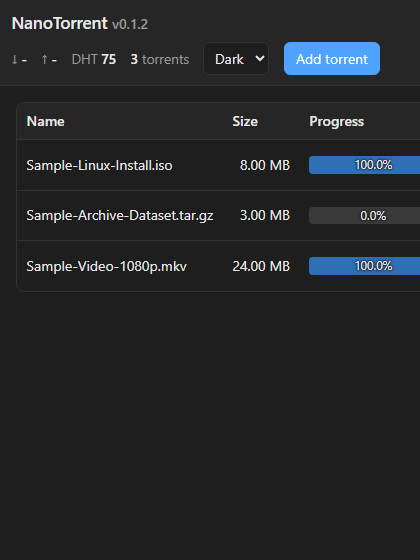
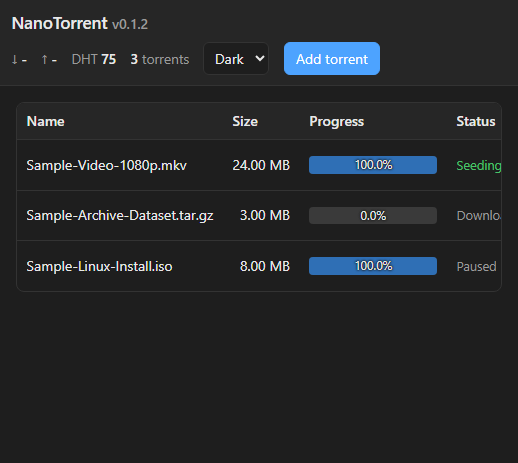
Verify the web remote's dialogs, and style the file input
Closes the gap left by the previous commit: --screenshot can only capture a
page load, so the Add torrent dialog and the folder browser were shipped on the
argument that their markup was simple rather than on evidence.

tools/api/uishot.py drives the page over the DevTools protocol instead -
navigate, wait for real data, run a snippet, capture - so anything reachable by
clicking is now verifiable without a visible browser window. The WebSocket
client is hand-rolled because CDP needs one and the standard library has none;
it handles masked text frames out and unmasked frames in, and nothing else,
which is all short JSON commands over loopback require and far less than a
dependency.

That immediately paid for itself twice.

The folder browser first captured completely empty - no path, no folders -
which looked exactly like a broken fetch. Probing the DOM rather than guessing
showed it working perfectly: path set, 28 folders, no errors. The capture had
simply fired 1200ms after the click, and opening it runs two sequential fetches
(/api/fs/roots then /api/fs/list). Snippets now await their own work, and
uishot prints their return value so they can double as probes.

The file input's inner button is a native control that keeps the browser's own
light styling on a dark page unless styled by name, so "Choose File" was a grey
box on a dark dialog. ::file-selector-button fixes it.

One thing to be careful with: the folder browser browses the real filesystem,
[…]

diff --git a/src/webui/index.html b/src/webui/index.html
@@ -122,6 +122,14 @@ input[type=text], input[type=file] {
   font: inherit; padding: .45rem .55rem; border: 1px solid var(--line);
   border-radius: 6px; background: var(--panel); color: var(--fg); width: 100%;
 }
+/* The file input's inner button is a native control and keeps the browser's
+   own light styling on a dark page unless it is styled by name. */
+input[type=file]::file-selector-button {
+  font: inherit; margin-right: .6rem; padding: .3rem .6rem; cursor: pointer;
+  border: 1px solid var(--line); border-radius: 5px;
+  background: var(--bg); color: var(--fg);
+}
+input[type=file]::file-selector-button:hover { border-color: var(--accent); color: var(--accent); }
 .row { display: flex; gap: .5rem; align-items: end; }
 .row > label { flex: 1; }
 .check { display: flex; gap: .4rem; align-items: center; color: var(--fg); font-size: .9rem; }

diff --git a/tools/api/uishot.py b/tools/api/uishot.py
@@ -1,0 +1,214 @@
+"""Screenshot the web remote after driving it, using the Chrome DevTools Protocol.
+
+`--screenshot` alone can only capture a page load, which leaves the dialogs -
+Add torrent, and the server-side folder browser - unverified. This drives the
+page instead: navigate, wait for real data, run a snippet, capture.
+
+Everything happens inside a headless browser, so it never takes over the
+screen. Edge and Chrome both work; pass --browser to choose.
+
+    python tools/api/uishot.py URL OUT.png [JS]
+
+The optional JS runs after the torrent list has data and before the capture,
+e.g. `document.getElementById('btn-add').click()`.
+
+The WebSocket client below is hand-rolled because CDP needs one and the
+standard library has none. It handles exactly what CDP requires - masked text
+frames out, unmasked frames in - and nothing else: no extensions, no
+continuation frames, no ping/pong. That is enough for short JSON commands over
+loopback, and far less than a dependency.
+"""
+
+import base64, json, os, secrets, socket, struct, subprocess, sys, tempfile, time
+import urllib.request
+
+BROWSERS = [
+    r"C:\Program Files (x86)\Microsoft\Edge\Application\msedge.exe",
+    r"C:\Program Files\Microsoft\Edge\Application\msedge.exe",
+    r"C:\Program Files\Google\Chrome\Application\chrome.exe",
+    "/usr/bin/microsoft-edge",
+    "/usr/bin/google-chrome",
+]
+
+
+class WS:
+    """The smallest WebSocket client that can carry CDP."""
+
+    def __init__(self, url):
+        _, rest = url.split("://", 1)
+        hostport, path = rest.split("/", 1)
+        host, port = hostport.split(":")
+        self.sock = socket.create_connection((host, int(port)), timeout=20)
+        key = base64.b64encode(secrets.token_bytes(16)).decode()
+        self.sock.sendall(
+            f"GET /{path} HTTP/1.1\r\nHost: {hostport}\r\nUpgrade: websocket\r\n"
+            f"Connection: Upgrade\r\nSec-WebSocket-Key: {key}\r\n"
+            f"Sec-WebSocket-Version: 13\r\n\r\n".encode()
+        )
+        buf = b""
+        while b"\r\n\r\n" not in buf:
+            buf += self.sock.recv(4096)
+        if b"101" not in buf.split(b"\r\n", 1)[0]:
+            raise RuntimeError("websocket upgrade refused: " + buf[:200].decode("latin1"))
+        self.rest = buf.split(b"\r\n\r\n", 1)[1]
+
+    def _read(self, n):
+        while len(self.rest) < n:
+            chunk = self.sock.recv(65536)
+            if not chunk:
+                raise RuntimeError("websocket closed")
+            self.rest += chunk
+        out, self.rest = self.rest[:n], self.rest[n:]
+        return out
+
+    def send(self, text):
+        payload = text.encode()
+        n = len(payload)
+        header = b"\x81"                      # FIN + text opcode
+        if n < 126:
+            header += bytes([0x80 | n])       # 0x80 = masked, required client->server
+        elif n < 65536:
+            header += bytes([0x80 | 126]) + struct.pack(">H", n)
+        else:
+            header += bytes([0x80 | 127]) + struct.pack(">Q", n)
+        mask = secrets.token_bytes(4)
+        masked = bytes(b ^ mask[i % 4] for i, b in enumerate(payload))
+        self.sock.sendall(header + mask + masked)
+
+    def recv(self):
+        b0, b1 = self._read(2)
+        n = b1 & 0x7F
+        if n == 126:
+            n = struct.unpack(">H", self._read(2))[0]
+        elif n == 127:
+            n = struct.unpack(">Q", self._read(8))[0]
+        if b1 & 0x80:                          # server frames are never masked
+            self._read(4)
+        return self._read(n).decode("utf-8", "replace")
+
+
+class CDP:
+    def __init__(self, ws):
+        self.ws, self.n = ws, 0
+
+    def call(self, method, **params):
+        self.n += 1
+        self.ws.send(json.dumps({"id": self.n, "method": method, "params": params}))
+        while True:
+            msg = json.loads(self.ws.recv())
+            if msg.get("id") == self.n:
+                if "error" in msg:
+                    raise RuntimeError(f"{method}: {msg['error']}")
+                return msg.get("result", {})
+            # Everything else is an event; CDP interleaves them freely.
+
+    def eval(self, expression, await_promise=False):
+        r = self.call(
+            "Runtime.evaluate",
+            expression=expression,
+            awaitPromise=await_promise,
+            returnByValue=True,
+        )
+        if "exceptionDetails" in r:
+            raise RuntimeError("page threw: " + json.dumps(r["exceptionDetails"])[:300])
+        return r.get("result", {}).get("value")
+
+
+def find_browser(preferred=None):
+    if preferred:
+        return preferred
+    for path in BROWSERS:
+        if os.path.exists(path):
+            return path
+    raise SystemExit("no Edge or Chrome found; pass --browser PATH")
+
+
+def main():
+    args = [a for a in sys.argv[1:] if not a.startswith("--browser=")]
+    pref = next((a.split("=", 1)[1] for a in sys.argv[1:] if a.startswith("--browser=")), None)
+    if len(args) < 2:
+        raise SystemExit(__doc__)
+    url, out = args[0], args[1]
+    js = args[2] if len(args) > 2 else None
+    width, height = 1280, 800
+    for a in args[3:]:
+        if "x" in a:
+            width, height = (int(v) for v in a.split("x", 1))
+
+    # A fresh profile every run. One left locked by a killed browser makes the
+    # next run exit silently, which reads exactly like a broken script.
+    profile = tempfile.mkdtemp(prefix="nt-uishot-")
+    proc = subprocess.Popen(
+        [
+            find_browser(pref), "--headless=new", "--disable-gpu", "--hide-scrollbars",
+            "--no-first-run", "--no-default-browser-check",
+            f"--user-data-dir={profile}", f"--window-size={width},{height}",
+            "--remote-debugging-port=0", "about:blank",
+        ],
+        stdout=subprocess.DEVNULL, stderr=subprocess.PIPE,
+    )
+
+    # Port 0 means "pick one"; the browser writes the real port here.
+    portfile = os.path.join(profile, "DevToolsActivePort")
+    deadline = time.time() + 30
+    while time.time() < deadline:
+        if os.path.exists(portfile):
+            lines = open(portfile).read().split("\n")
+            if len(lines) >= 2:
+                port = int(lines[0])
+                break
+        time.sleep(0.2)
+    else:
+        proc.kill()
+        raise SystemExit("browser never reported a DevTools port")
+
+    try:
+        targets = []
+        deadline = time.time() + 20
+        while time.time() < deadline and not targets:
+            with urllib.request.urlopen(f"http://127.0.0.1:{port}/json/list", timeout=5) as r:
+                targets = [t for t in json.load(r) if t.get("type") == "page"]
+            if not targets:
+                time.sleep(0.2)
+        if not targets:
+            raise SystemExit("no page target")
+
+        cdp = CDP(WS(targets[0]["webSocketDebuggerUrl"]))
+        cdp.call("Page.enable")
+        cdp.call("Runtime.enable")
+        cdp.call("Page.navigate", url=url)
+
+        # Wait for real data rather than the load event - the table is filled by
+        # fetch(), which resolves after load.
+        cdp.eval(
+            """new Promise(done => {
+                 const t0 = Date.now();
+                 (function check() {
+                   const ready = document.querySelector('#rows tr')
+                              || document.getElementById('empty')?.hidden === false;
+                   if (ready || Date.now() - t0 > 10000) done(true);
+                   else setTimeout(check, 100);
+                 })();
+               })""",
+            await_promise=True,
+        )
+
+        if js:
+            value = cdp.eval(js, await_promise=True)
+            # Printed so the snippet can double as a probe - return something
+            # describing the page state and it lands on stdout next to the file.
+            if value is not None:
+                print(json.dumps(value)[:2000])
+            # Let a dialog finish opening and any fetch it kicks off settle.
+            cdp.eval("new Promise(r => setTimeout(r, 1200))", await_promise=True)
+
+        data = cdp.call("Page.captureScreenshot", format="png")["data"]
+        with open(out, "wb") as f:
+            f.write(base64.b64decode(data))
+        print(f"wrote {out}")
+    finally:
+        proc.kill()
+
+
+if __name__ == "__main__":
+    main()

diff --git a/docs/web-remote/README.md b/docs/web-remote/README.md
@@ -2,32 +2,56 @@
 
 The optional HTTP interface (`src/webui/index.html`), rendered by Edge 151
 headless against a live headless NanoTorrent with three synthetic torrents in
-three different states.
-
-Captured with no screen interaction at all:
-
-    msedge --headless=new --disable-gpu --hide-scrollbars \
-           --user-data-dir=<fresh dir> --window-size=1280,420 \
-           --virtual-time-budget=10000 \
-           --screenshot=out.png "http://127.0.0.1:8444/?refresh=0&theme=dark"
-
-Three things that invocation depends on:
-
-- **`?refresh=0`.** `--virtual-time-budget` captures once the network falls
-  idle, and a page polling every two seconds never does - the run hangs until
-  killed.
-- **A fresh `--user-data-dir` per run.** A profile left locked by a killed Edge
-  makes the next run exit silently without writing a file.
-- **The auth proxy.** Headless Chromium has no credential prompt and does not
-  carry URL-embedded credentials into `fetch()`, so a screenshot needs the
-  Authorization header injected in front of the server. See
-  `tools/api/README.md`; nothing about the server changes for it.
+three different states. No screen interaction is involved - headless opens no
+window, so these can be regenerated while someone else is using the machine.
 
 | File | View |
 |---|---|
 | `01-dark.png` | Dark theme, desktop width |
 | `02-light.png` | Light theme, desktop width |
 | `03-mobile.png` | Dark theme at 420px, the phone case |
+| `04-add-dialog.png` | Add torrent dialog |
+| `05-folder-browser.png` | Server-side folder browser |
 
-Not captured, because they need interaction rather than a page load: the Add
-torrent dialog and the server-side folder browser.
+## Regenerating
+
+Page loads need nothing but a browser flag:
+
+    msedge --headless=new --disable-gpu --hide-scrollbars \
+           --user-data-dir=<fresh dir> --window-size=1180,340 \
+           --virtual-time-budget=10000 \
+           --screenshot=out.png "http://127.0.0.1:8444/?refresh=0&theme=dark"
+
+Anything needing a click goes through `tools/api/uishot.py`, which drives the
+page over the DevTools protocol - navigate, wait for real data, run a snippet,
+capture:
+
+    python tools/api/uishot.py "http://127.0.0.1:8444/?refresh=0" out.png \
+      "(async()=>{document.getElementById('btn-add').click();
+                  await new Promise(r=>setTimeout(r,400));})()" 900x600
+
+Both depend on three things that are easy to get wrong and produce confusing
+symptoms rather than errors:
+
+- **`?refresh=0`.** `--virtual-time-budget` captures once the network falls
+  idle, and a page polling every two seconds never does - the run hangs until
+  killed.
+- **A fresh `--user-data-dir` per run.** A profile left locked by a killed
+  browser makes the next run exit silently without writing a file.
+- **The auth proxy** (`tools/api/authproxy.py`). Headless Chromium has no
+  credential prompt and does not carry URL-embedded credentials into `fetch()`,
+  so without it the page loads and every API call 401s - you get a perfectly
+  rendered empty table and no error anywhere.
+
+Snippets passed to `uishot.py` should `await` their own work and return
+something describing the page; the return value is printed. Waiting a fixed
+period instead is how the folder browser was first captured empty, which looked
+exactly like a bug and was not one - two sequential fetches had simply not
+finished.
+
+## Keep real data out of these
+
+`05-folder-browser.png` browses the machine's own filesystem, so it will happily
+show whatever is in `~/Downloads`. It is pointed at an isolated test folder
+containing only synthetic directories. Check any regenerated shot before
+committing it.
